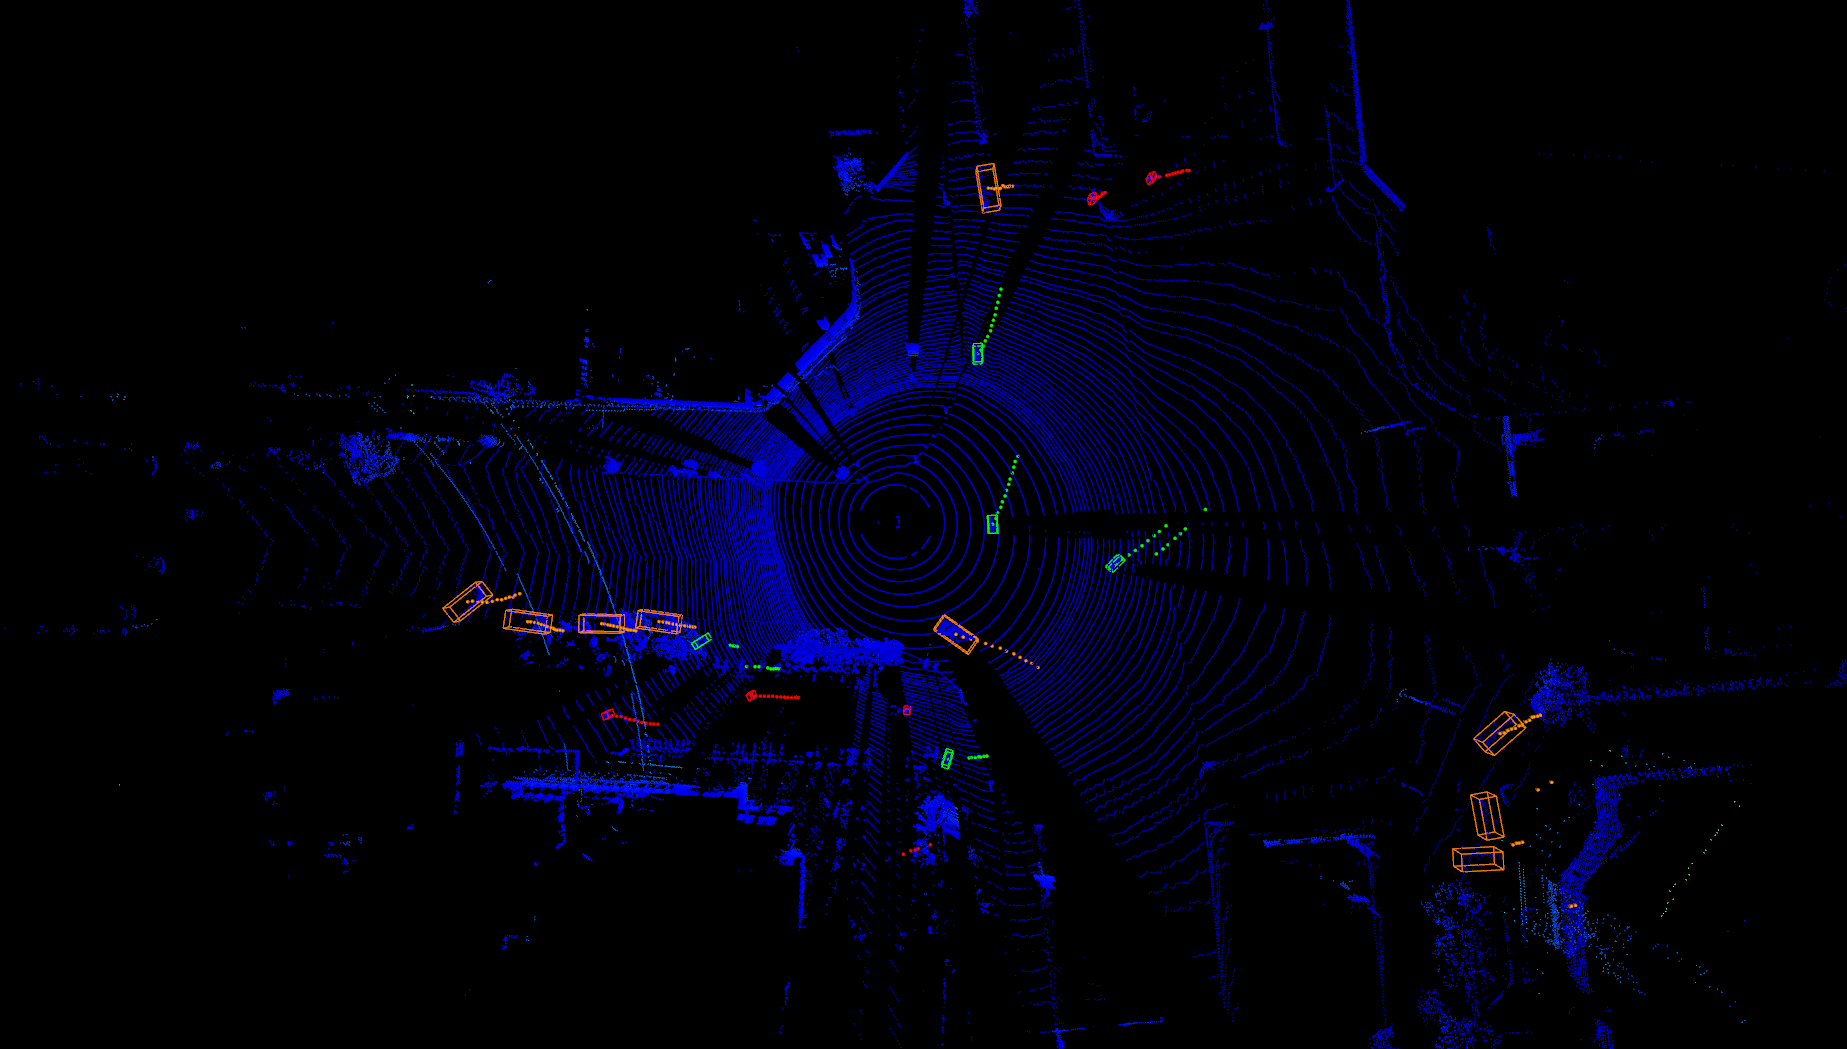
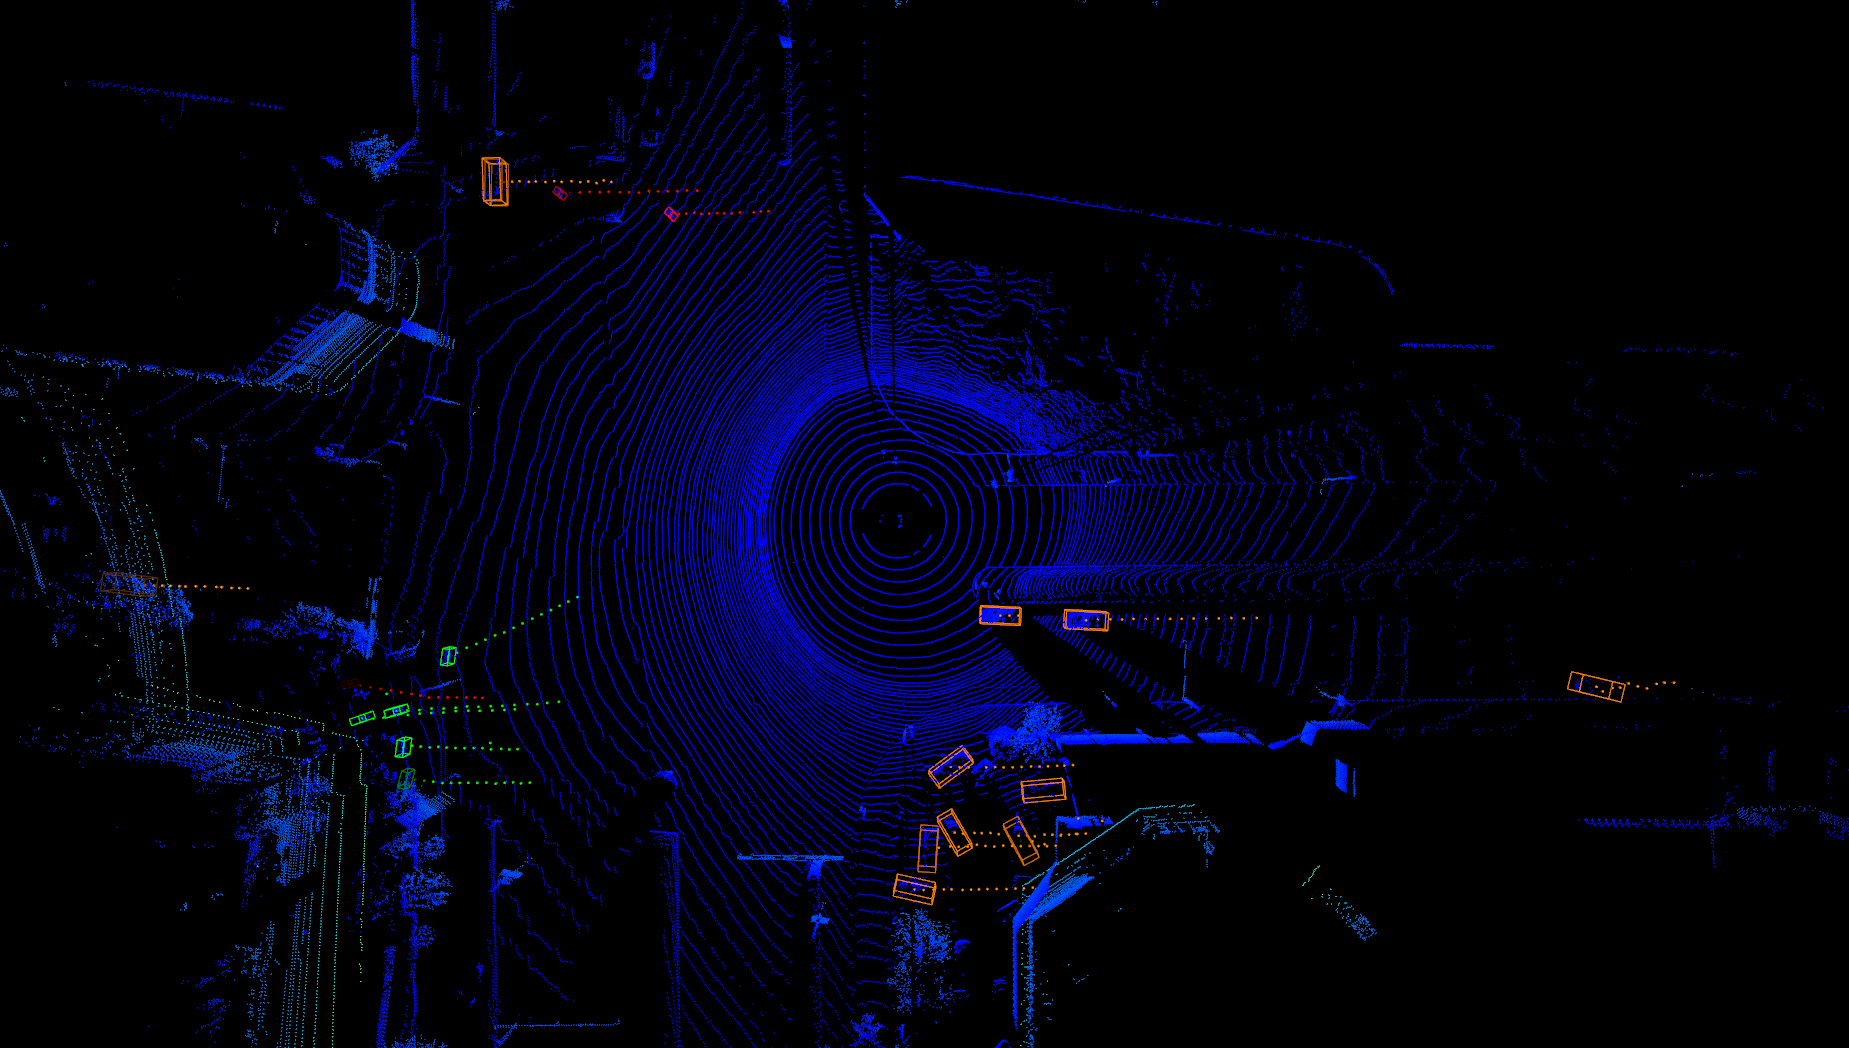
update detector to add new objects and manage the life of objects. Also add faded effect of motion predicted results

diff --git a/tools/test_detect_and_track.py b/tools/test_detect_and_track.py
@@ -4,34 +4,75 @@ from pathlib import Path
 import numpy as np
 import open3d as o3d
 from alfred.utils.log import init_logger
-from det3d.torchie import Config
 from loguru import logger as logging
+
+from det3d.torchie import Config
 
 init_logger()
 
-from tools.test_a_bin_file import Deecamp3DDector, convert_detection_to_geometries, box_colors
+from tools.test_a_bin_file import Deecamp3DDector, convert_detection_to_geometries, box_colors, box_to_geometries
 
 
 class SimpleTrackObject(object):
 
-    def __init__(self, box, label, distance_thresh=0.5, window_size=15):
-        self.box = box
+    def __init__(self, timestamp, box, label, distance_thresh=5.0, window_size=15, life_period=5):
         self.label = label
+        self.timestamp = timestamp
+        self.last_measurement_timestamp = timestamp
+
         self.distance_thresh = distance_thresh
         self.window_size = window_size
+        self.life_period = life_period
 
+        self.num_of_predictions = 0
         self.history = list()
         self.history.append(box)
 
     def get_xyz(self):
-        return self.box[: 3]
+        return self.history[-1][: 3]
 
-    def update_measurement(self, new_box):
-        self.box = new_box
+    def check_alive(self):
+        return (self.timestamp - self.last_measurement_timestamp) <= self.life_period
+
+    def check_need_of_prediction(self, timestamp):
+        return timestamp != self.last_measurement_timestamp
+
+    def update_motion(self, timestamp, life_length_thresh=3):
+        self.timestamp = timestamp
+
+        # using constant velocity model if being alive long enough
+        if len(self.history) > life_length_thresh:
+            new_box = self.history[-1].copy()
+
+            # calculate velocity
+            cur_velocity = self.history[-1][: 3] - self.history[-2][: 3]
+            pre_velocity = self.history[-2][: 3] - self.history[-3][: 3]
+
+            # weighted smoother
+            velocity = 0.8 * cur_velocity + 0.2 * pre_velocity
+
+            # create prediction
+            new_box[: 3] += velocity
+
+            # add to history
+            self.update_history(new_box)
+
+            # update num of predictions
+            self.num_of_predictions += 1
+
+
+    def update_measurement(self, timestamp, new_box):
+        self.timestamp = timestamp
+        self.last_measurement_timestamp = timestamp
+        self.update_history(new_box)
+
+        # clear num of predictions
+        self.num_of_predictions = 0
+
+    def update_history(self, new_box):
         self.history.append(new_box)
         if len(self.history) > self.window_size:
             del self.history[0]
-        return
 
 
 class SimpleTracker(object):
@@ -42,45 +83,103 @@ class SimpleTracker(object):
 
         self.objects = list()
         self.initialized = False
+        self.current_timestamp = 0
 
     def add_object(self, obj):
         self.objects.append(obj)
 
-    def update_object(self, new_box, label):
+    def update_object(self, timestamp, new_box, label):
 
-        for cur_obj in self.objects:
+        closest_obj_ind = -1
+        closest_obj_dist = 1e6
+
+        for i in range(len(self.objects)):
+
+            cur_obj = self.objects[i]
             # check label
             if label != cur_obj.label:
                 continue
 
             # check if in tracking range
-            range = np.linalg.norm(new_box[: 3])
-            if range > self.tracking_range:
+            r = np.linalg.norm(new_box[: 3])
+            if r > self.tracking_range:
                 continue
 
             # check association by distance
             dist = np.linalg.norm(cur_obj.get_xyz() - new_box[: 3])
-            if dist < self.distance_thresh:
-                cur_obj.update_measurement(new_box)
-                return
+            if dist < self.distance_thresh and dist < closest_obj_dist:
+                closest_obj_ind = i
+                closest_obj_dist = dist
+
+        if closest_obj_ind > 0:
+            self.objects[closest_obj_ind].update_measurement(timestamp, new_box)
+        else:
+            new_obj = SimpleTrackObject(timestamp, new_box, label)
+            self.add_object(new_obj)
 
     def get_geometries_for_visualization(self):
 
         geometries = list()
+        prediction_geometry = None
 
         for obj in self.objects:
-            label = obj.label
+            
+            # ignore those objects with too short life
+            if len(obj.history) < 3:
+                continue
 
-            for box in obj.history:
-                mesh_sphere = o3d.geometry.TriangleMesh.create_sphere(radius=0.2)
+            # get number of predictions
+            num_of_predictions = obj.num_of_predictions
+            final_color_fade_factor = 1 - (num_of_predictions / (obj.life_period + 1))
+
+            # add histories
+            for i in range(len(obj.history)):
+                box = obj.history[i]
+                mesh_sphere = o3d.geometry.TriangleMesh.create_sphere(radius=0.15)
+
+                # modify the color of prediction histories
+                if i < (len(obj.history) - num_of_predictions):
+                    mesh_sphere.paint_uniform_color(box_colors[obj.label])
+                else:
+                    color_fade_factor = (len(obj.history) - i) / (obj.life_period + 1)
+                    color = np.asarray(box_colors[obj.label])
+                    mesh_sphere.paint_uniform_color(color * color_fade_factor)
+
                 mesh_sphere.compute_vertex_normals()
-                mesh_sphere.paint_uniform_color(box_colors[label])
                 transformation = np.identity(4)
                 transformation[:3, 3] = box[: 3]
                 mesh_sphere.transform(transformation)
                 geometries.append(mesh_sphere)
 
+            # add virtual box if predicting
+            if num_of_predictions > 0:
+                boxes = np.expand_dims(obj.history[-1], axis=0)
+                labels = np.expand_dims(np.array(obj.label), axis=0)
+                prediction_geometry = box_to_geometries(boxes, labels, final_color_fade_factor)
+                geometries.append(prediction_geometry[0])
+
         return geometries
+
+    # refresh by prediction and cleaning, after finishing the updating
+    def refresh(self, timestamp):
+        self.predict_motion(timestamp)
+        self.clean()
+
+    # manually update those objects without measurement by motion model
+    def predict_motion(self, timestamp):
+        for obj in self.objects:
+            # predict those objects without new measurements
+            if obj.check_need_of_prediction(timestamp):
+                obj.update_motion(timestamp)
+
+    # manually clean the dead objects
+    def clean(self):
+        alive_list = list()
+        for ind in range(len(self.objects)):
+            if self.objects[ind].check_alive():
+                alive_list.append(ind)
+
+        self.objects = [self.objects[i] for i in alive_list]
 
 
 def key_callback_to_quit(vis):
@@ -151,19 +250,25 @@ if __name__ == "__main__":
         vis.create_window()
 
         # start to detect & track
+        timestamp = 0
         for cloud_file in cloud_files:
+
+            # detect
             points, boxes, labels = detector.predict_on_deecamp_local_file(cloud_file)
 
+            # track
             if not tracker.initialized:
                 for box, label in zip(boxes, labels):
-                    obj = SimpleTrackObject(box, label)
+                    obj = SimpleTrackObject(timestamp, box, label)
                     tracker.add_object(obj)
 
                 tracker.initialized = True
 
             else:
                 for box, label in zip(boxes, labels):
-                    tracker.update_object(box, label)
+                    tracker.update_object(timestamp, box, label)
+
+            tracker.refresh(timestamp)  # make motion prediction and remove those objects which are dead
 
             # visualization
             vis.clear_geometries()
@@ -184,5 +289,7 @@ if __name__ == "__main__":
 
             vis.poll_events()
             vis.update_renderer()
+
+            timestamp += 1
 
         vis.destroy_window()

diff --git a/tools/test_a_bin_file.py b/tools/test_a_bin_file.py
@@ -9,22 +9,48 @@ from alfred.fusion.common import compute_3d_box_lidar_coords
 from alfred.utils.log import init_logger
 from alfred.vis.pointcloud.pointcloud_vis import draw_pcs_open3d
 from apex import amp
+from loguru import logger as logging
+
 from det3d.builder import build_voxel_generator, build_target_assigners
 from det3d.models import build_detector
 from det3d.torchie import Config
 from det3d.torchie.trainer import load_checkpoint
-from loguru import logger as logging
 
 init_logger()
 
 # set box colors
 box_colors = [
-    [1, 0.5, 0],  # orange, Car
-    [1, 0, 1],  # magenta, Truck
-    [1, 1, 1],  # white, Tricar
-    [0, 1, 0],  # green, Cyclist
-    [1, 0, 0]  # red, Pedestrian
+    [1.0, 0.5, 0.0],  # orange, Car
+    [1.0, 0.0, 1.0],  # magenta, Truck
+    [1.0, 1.0, 1.0],  # white, Tricar
+    [0.0, 1.0, 0.0],  # green, Cyclist
+    [1.0, 0.0, 0.0]  # red, Pedestrian
 ]
+
+
+def box_to_geometries(box3d, labels, color_fade_factor=1.0):
+    geometries = list()
+
+    # get 3d boxes coordinates
+    for ind in range(box3d.shape[0]):
+        p = box3d[ind, :]
+        xyz = np.array([p[: 3]])
+        hwl = np.array([p[3: 6]])
+        r_y = [-p[6]]  # it seems the angle needs to be inverted in the visualization
+        pts3d = compute_3d_box_lidar_coords(xyz, hwl, angles=r_y, origin=(0.5, 0.5, 0.5), axis=2)[0]
+        lines = [[0, 1], [1, 2], [2, 3], [3, 0],
+                 [4, 5], [5, 6], [6, 7], [7, 4],
+                 [0, 4], [1, 5], [2, 6], [3, 7]]
+        color = np.asarray(box_colors[labels[ind]])
+        color *= color_fade_factor
+        colors = [color for i in range(len(lines))]
+        line_set = o3d.geometry.LineSet()
+        line_set.points = o3d.utility.Vector3dVector(pts3d)
+        line_set.lines = o3d.utility.Vector2iVector(lines)
+        line_set.colors = o3d.utility.Vector3dVector(colors)
+        geometries.append(line_set)
+
+    return geometries
 
 
 def convert_detection_to_geometries(points, box3d, labels):
@@ -36,22 +62,8 @@ def convert_detection_to_geometries(points, box3d, labels):
     pcobj.points = o3d.utility.Vector3dVector(pcs)
     geometries.append(pcobj)
 
-    # try getting 3d boxes coordinates
-    for ind in range(box3d.shape[0]):
-        p = box3d[ind, :]
-        xyz = np.array([p[: 3]])
-        hwl = np.array([p[3: 6]])
-        r_y = [-p[6]]  # it seems the angle needs to be inverted in the visualization
-        pts3d = compute_3d_box_lidar_coords(xyz, hwl, angles=r_y, origin=(0.5, 0.5, 0.5), axis=2)[0]
-        lines = [[0, 1], [1, 2], [2, 3], [3, 0],
-                 [4, 5], [5, 6], [6, 7], [7, 4],
-                 [0, 4], [1, 5], [2, 6], [3, 7]]
-        colors = [box_colors[labels[ind]] for i in range(len(lines))]
-        line_set = o3d.geometry.LineSet()
-        line_set.points = o3d.utility.Vector3dVector(pts3d)
-        line_set.lines = o3d.utility.Vector2iVector(lines)
-        line_set.colors = o3d.utility.Vector3dVector(colors)
-        geometries.append(line_set)
+    # add boxes
+    geometries += box_to_geometries(box3d, labels)
 
     return geometries
 
